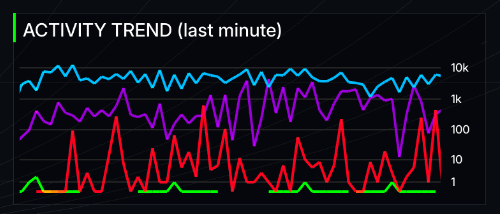
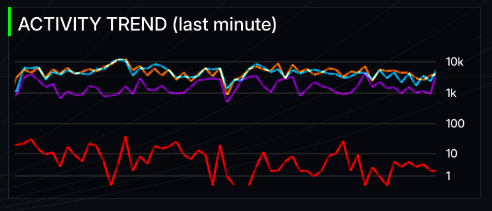
lots of edits

Changed region(s): [[0.0, 0.0284, 0.9451, 0.9384], [0.0305, 0.9384, 0.9756, 0.9668]]

diff --git a/content/posts/2026/live-internet-map/index.md b/content/posts/2026/live-internet-map/index.md
@@ -80,18 +80,22 @@ In networking, flapping happens when a route rapidly appears and disappears. Ima
 
 ### Decoding the Pulses
 
-When you see those colored pulses popping off on the map, they represent specific BGP message types. "Updates" is the general term, but practically, the protocol is juggling a few distinct events:
+When you see those colored pulses popping off on the map, they represent BGP updates processed through a multi-stage classification engine. Rather than just showing raw protocol messages (which is what the earlier version of the map did), the map categorizes events into four distinct colors based on their behavior and potential impact.
 
 {{< diagram >}}
-{{< figure src="legend.png" alt="Legend" width="400px" loading="lazy" >}}
+{{< figure src="legend.png" alt="Legend" loading="lazy" >}}
 {{< /diagram >}}
 
-| Event Type | Color | Description |
-| :--- | :--- | :--- |
-| **Propagation** | Blue | Routers frequently re-announce perfectly valid paths just to keep their tables current; this redundant background noise makes up the blue pulses on the map. |
-| **Path Change** | Purple | The destination is still online, but the directions changed. If traffic suddenly has to detour through an extra transit provider to reach its goal, you'll see those routing adjustments flash purple. |
-| **Withdrawals** | Red | Red means a route is dead. A router is explicitly telling the Internet that a previously advertised IP block is no longer reachable which is usually the result of a severed fiber cable, hardware failure, or a planned maintenance window. |
-| **New Paths** | Green | Bright green pulses mean a new path just opened up. This could be a new ISP coming online, a fresh datacenter spinning up, or just a router discovering a better shortcut. |
+#### Anomalies and Behaviors
+
+The classification engine also maps events into Level 2 categorizations (anomalies) based on heuristics applied over recent activity windows. To make sense of the noise, the multi-stage engine uses specific triggers to drop these events into the four colored buckets before presenting them on the map. These fall into four severity tiers:
+
+| Severity Tier | Color | Examples | Description |
+| :--- | :--- | :--- | :--- |
+| **Critical** | Red | Outage, Route Leak | Significant routing failures, such as a prefix sustaining multiple withdrawals with no announcements, or path violations that suggest a route leak. |
+| **Bad** | Orange | Link Flap, Babbling | Highly volatile or inefficient behavior, including rapid "flapping" of routes, excessive "babbling" with unchanged attributes, or frequent next-hop changes. |
+| **Normal / Policy** | Purple | Policy Churn, Path Hunting | Standard routing adjustments, such as traffic engineering (Policy Churn), path length oscillations, or the natural "Path Hunting" process where routers explore alternatives during convergence. |
+| **Normal / Discovery** | Blue | Discovery, Gossip | Routine background noise, including standard prefix origination or redundant gossip pulses that keep routing tables current. |
 
 {{< diagram >}}
 {{< figure src="map-animation-noui.webp" animate="true" width="700px" animate="true" >}}
@@ -105,8 +109,8 @@ To make sure the map isn't just a wall of moving dots, I included several dashbo
 
 | Preview | Description |
 | :--- | :--- |
-| {{< figure src="top-activity-hubs.png" alt="Top Activity Hubs" loading="lazy" >}} | Ranks the countries currently experiencing the highest volume of network updates. It is an instant look at where in the world the most "routing churn" is happening at any given moment. |
-| {{< figure src="most-active-prefixes.png" alt="Most Active Prefixes" loading="lazy" >}} | Tracks the specific network blocks causing the most noise. Great for spotting outages or a flapping link. Another name for this is the networking "wall of shame". |
+| {{< figure src="active-countries.png" alt="Active Countries" loading="lazy" >}} | Ranks the countries currently experiencing the highest volume of network updates. It is an instant look at where in the world the most "routing churn" is happening at any given moment. |
+| {{< figure src="bgp-anomalies.png" alt="BGP Anomalies" loading="lazy" >}} | Tracks the specific network blocks that have the worst anomalies that we've detected. Great for spotting outages or a flapping link. Another name for this is the networking "wall of shame". |
 | {{< figure src="activity-trend.png" alt="Activity Trend" loading="lazy" >}} | A rolling 60-second activity graph. It tracks whether activity is spiking or calming down, letting you see the difference between routine background noise and a massive routing event. |
 | {{< figure src="beacon-analysis.png" alt="Beacon Analysis" loading="lazy" >}} | A dynamic donut chart separating "Organic" traffic from "Beacons" (special test signals sent out by researchers). It helps show how much activity is natural versus intentional measurement. More on this below. |
 | {{< figure src="now-playing.png" alt="Now Playing" loading="lazy" >}} | The current background music track. |
@@ -123,7 +127,7 @@ I've since learned this is likely due to a phenomenon called ["Path Hunting."](h
 
 This scramble to find backup paths can occasionally leave behind an interesting anomaly known as a "BGP zombie." If a router fails to process a withdrawal message due to a software bug or slow propagation, it will stubbornly keep announcing a dead path to its neighbors, creating a localized black hole for traffic. [Cloudflare has a great write-up](https://blog.cloudflare.com/going-bgp-zombie-hunting/) on hunting down these undead routes if you want to fall down that rabbit hole.
 
-**Anycast** routing amplifies this chatter even further. Huge networks (like Google or Cloudflare) announce the exact same `/24` prefix from dozens of different physical locations globally so their services are fast everywhere.  But if a major transit provider drops a peering session, or a provider intentionally shifts traffic away from a datacenter for maintenance, thousands of routers might suddenly decide to shift their traffic to a different Anycast node all at once. The result is a sudden surge of routing adjustments across the map.
+**Anycast** routing amplifies this chatter even further. Huge networks (like Google or Cloudflare) announce the exact same `/24` prefix from dozens of different physical locations globally so their services are fast everywhere. But if a major transit provider drops a peering session, or a provider intentionally shifts traffic away from a datacenter for maintenance, thousands of routers might suddenly decide to shift their traffic to a different Anycast node all at once. The result is a sudden surge of routing adjustments across the map.
 
 {{< diagram >}}
 {{< image src="spiderman-meme.png" >}}
@@ -149,7 +153,7 @@ So if a burst of updates isn't a dying link, a desperate search for a backup pat
 
 I caught a great example of this while watching the stream. A Finnish fiber provider (`AS43016`) was firing off nearly 100 pulses per second, and this went on for days. The raw data showed the route wasn't actually dropping. Instead, a single piece of metadata called the Aggregator ID just kept flipping back and forth.
 
-This creates a localized flurry of activity. Some router somewhere was probably misconfigured and couldn’t make up its mind about how to summarize its own network. Every time it changed its mind, even by a single bit, it had to update every other router on Earth. Standard monitoring tools usually miss these "attribute flaps" because the network stays perfectly reachable. But on the map, they paint a very clear picture: a constant, rhythmic heartbeat of blue gossip pulses.
+This creates a localized flurry of activity. Some router somewhere was probably misconfigured and couldn’t make up its mind about how to summarize its own network. Every time it changed its mind, even by a single bit, it had to update every other router on Earth. Standard monitoring tools usually miss these "attribute flaps" because the network stays perfectly reachable. But on the map, they paint a very clear picture: a constant, rhythmic heartbeat of orange "bad behavior" pulses.
 
 I built [a tool](https://github.com/sudorandom/bgp-stream/blob/main/cmd/debug-prefix/main.go) to debug noisy prefixes like this. It aggregates BGP update stats and tries to diagnose the root cause, such as path oscillation, a flapping link, or heavy Anycast routing. Here is the output for our problem child over at `AS43016`:
 
@@ -181,7 +185,7 @@ Top 5 Churning Peers:
   154.18.4.110: 132 attribute changes
 ```
 
-At the time of publishing, this prefix is still babbling away.
+At the time of publishing, this prefix is still babbling away. This script became the basis for the classification engine that I discuss later on in the article.
 
 ---
 
@@ -543,13 +547,13 @@ Batch -> Cache: Store state
 Pace -> Output: Smooth Render
 {{< /d2 >}}
 
-## Aesthetics, Motion, and Sound
+## Aesthetics and Motion
 
 Animations use interpolation instead of snapping to the next state. For parts of the map which update infrequently, I wanted to highlight that a change occurred. For that, I added a "glitch" effect to the "Top Activity Hubs" and "Most Active Prefixes" to make it more obvious and to add to the cyberpunk aesthetic. These effects add polish, but too much motion distracts. Finding that balance took restraint and a surprisingly large amount of experimentation.
 
 The pulses are what actually bring the data to life. In the engine, each pulse is a simple generated glow texture. I add a bit of spatial jitter so concurrent events do not stack perfectly on top of each other, and I scale their sizes logarithmically so massive data spikes do not turn the map into a solid wall of color.
 
-The colors map directly to the event types: green for new paths, purple for updates, red for withdrawals, and blue for gossip. Because they use additive blending, overlapping pulses naturally create a bright hotspot over regions with a ton of routing activity. They pop onto the map, expand, and fade out smoothly. Managing this entire visual lifecycle efficiently is what keeps the map feeling dynamic without tanking the frame rate.
+The colors map directly to the severity tiers: red for critical events, orange for bad behavior, purple for policy churn and hunting, and blue for routine discovery. Because they use additive blending, overlapping pulses naturally create a bright hotspot over regions with a ton of routing activity. They pop onto the map, expand, and fade out smoothly. Managing this entire visual lifecycle efficiently is what keeps the map feeling dynamic without tanking the frame rate.
 
 {{< diagram >}}
 {{< figure src="europe-animation.webp" caption="Animation of BGP events in Europe" animate="true" width="700px" animate="true" >}}
@@ -566,6 +570,150 @@ I chose the [Mollweide projection](https://en.wikipedia.org/wiki/Mollweide_proje
 {{< /diagram >}}
 
 This is an equal-area projection, which means it accurately represents the physical footprint of different regions. It produces a world view that still feels familiar without exaggerating high-latitude areas.
+
+## More meaningful Events
+
+Raw BGP messages only tell us two things: a route was announced, or a route was withdrawn. So how does the dashboard know when to declare a 'link flap', a 'route leak', or a massive 'outage'? The short answer is that I built a classification engine that takes the pattern of raw announce/withdrawal updates that BGP provides and converts them more meaningful events. Some kinds of events are easier to detect than others.
+
+Route leaks are a great example of how messy this can get. Initially, I tried to validate routes using databases like [Cloudflare's RPKI portal](https://blog.cloudflare.com/rpki/), specifically hooking into their `rpki.json` endpoint. The goal was to check if the announcements for networks actually matched their registered ASNs. In practice, this resulted in way too many false positives because a massive number of announcements just were not matching the registered ASNs. If I had kept that logic, the map would have been permanently covered in red alert pulses.
+
+Because of the noise, I ended up implementing a check for the valley-free routing principle. To understand why this works, we have to look at how BGP treats business relationships. BGP routing policies are built around who is paying whom. A network typically has providers it pays for transit, customers who pay it for access, and peers it swaps traffic with for mutual benefit. The valley-free rule dictates that a network should never act as a free transit bridge between two of its providers or peers.
+
+Imagine a small regional network buys internet access from both AT&T and Verizon for redundancy. AT&T shares its global routing table with this small network so it knows where to send data. If that small network accidentally announces all of those AT&T routes to Verizon, it is inadvertently telling the entire internet to send all traffic between Verizon and AT&T through its local routers. Traffic would flow down from Verizon, into the small regional network, and back up to AT&T. That "down and back up" path is what creates the valley shape in the AS path.  Because that small network does not have the capacity to handle global Tier-1 traffic, it immediately gets crushed under the weight of the data. The network drops packets and causes a massive localized internet outage, which is a classic route leak.
+
+{{< d2 >}}
+classes: {
+  t1: {
+    shape: cloud
+    style: {
+      fill: "#3498db"
+      stroke: "#2980b9"
+      font-color: "#ecf0f1"
+      bold: true
+    }
+  }
+  customer: {
+    shape: rectangle
+    style: {
+      fill: "#f1c40f"
+      stroke: "#f39c12"
+      font-color: "#2c3e50"
+      border-radius: 5
+      bold: true
+    }
+  }
+  mitm: {
+    shape: rectangle
+    style: {
+      fill: "#e74c3c"
+      stroke: "#c0392b"
+      font-color: "#ecf0f1"
+      border-radius: 5
+      bold: true
+      shadow: true
+    }
+  }
+  scenario_box: {
+    style: {
+      fill: transparent
+      stroke: "#bdc3c7"
+      stroke-width: 1
+      border-radius: 10
+      font-color: "#2c3e50"
+    }
+  }
+  invisible_layer: {
+    style: {
+      fill: transparent
+      stroke: transparent
+    }
+  }
+}
+
+"Valid Path: Up, Across, Down": {
+  class: scenario_box
+  direction: down
+
+  Top_Layer: {
+    label: ""
+    class: invisible_layer
+    direction: right
+    
+    T1_A: Tier 1 {class: t1}
+    T1_B: Tier 1 {class: t1}
+    
+    T1_A -> T1_B: "Across"
+  }
+
+  Bottom_Layer: {
+    label: ""
+    class: invisible_layer
+    direction: right
+    
+    C1: Customer Network\n(ISP) {class: customer}
+    C2: Customer Network {class: customer}
+    
+    # Invisible link to keep alignment clean
+    C1 -> C2 {style: {stroke: transparent}}
+  }
+
+  Bottom_Layer.C1 -> Top_Layer.T1_A: "Up"
+  Top_Layer.T1_B -> Bottom_Layer.C2: "Down"
+}
+
+"Route Leak: The Valley": {
+  class: scenario_box
+  direction: down
+
+  Top_Layer: {
+    label: ""
+    class: invisible_layer
+    direction: right
+    
+    T1_C: Tier 1 {class: t1}
+    T1_D: Tier 1 {class: t1}
+    
+    # Invisible link to keep spacing consistent with the MITM below
+    T1_C -> T1_D {style: {stroke: transparent}}
+  }
+
+  Bottom_Layer: {
+    label: ""
+    class: invisible_layer
+    direction: right
+    
+    C3: Customer Network\n(ISP) {class: customer}
+    MITM: Customer Network\n(MITM) 😠 {class: mitm}
+    C4: Customer Network {class: customer}
+    
+    # Invisible links to space them out evenly
+    C3 -> MITM {style: {stroke: transparent}}
+    MITM -> C4 {style: {stroke: transparent}}
+  }
+
+  Bottom_Layer.C3 -> Top_Layer.T1_C: "Up"
+  Top_Layer.T1_C -> Bottom_Layer.MITM: "Down" {style: {stroke: "#e74c3c"; stroke-width: 3; stroke-dash: 5}}
+  Bottom_Layer.MITM -> Top_Layer.T1_D: "Up (Valley Formed)" {style: {stroke: "#e74c3c"; stroke-width: 3; stroke-dash: 5}}
+  Top_Layer.T1_D -> Bottom_Layer.C4: "Down"
+}
+{{< /d2 >}}
+
+So, when the classification engine sees an AS path that violates this principle by dipping down into a lower-tier network and back up to a major provider, the system flags it as a route leak. While it serves as a decent baseline, I am generally uncertain about relying solely on this method. It is definitely a part of the classification engine that I want to explore and refine over time.
+
+Other rules are slightly more straightforward:
+
+| Event | Detection Trigger |
+| :--- | :--- |
+| **Outage** | >= 3 withdrawals, 0 announcements |
+| **Route Leak** | path contains Tier-1 to non-Tier-1 to Tier-1 |
+| **Link Flap** | > 5 withdrawals, announce:withdrawal ratio < 2.5 |
+| **Babbling** | High volume, unchanged attributes |
+| **Next-Hop Flap** | >= 5 next-hop changes, stable path length |
+| **Aggregator Flap**| > 10 AGGREGATOR changes |
+| **Policy Churn** | Elevated attribute changes |
+| **Path Oscillation**| Frequent path length switching |
+| **Path Hunting** | Increasing path length, then withdrawal |
+| **Discovery** | Prolonged announcements, few changes |
 
 ---
 
